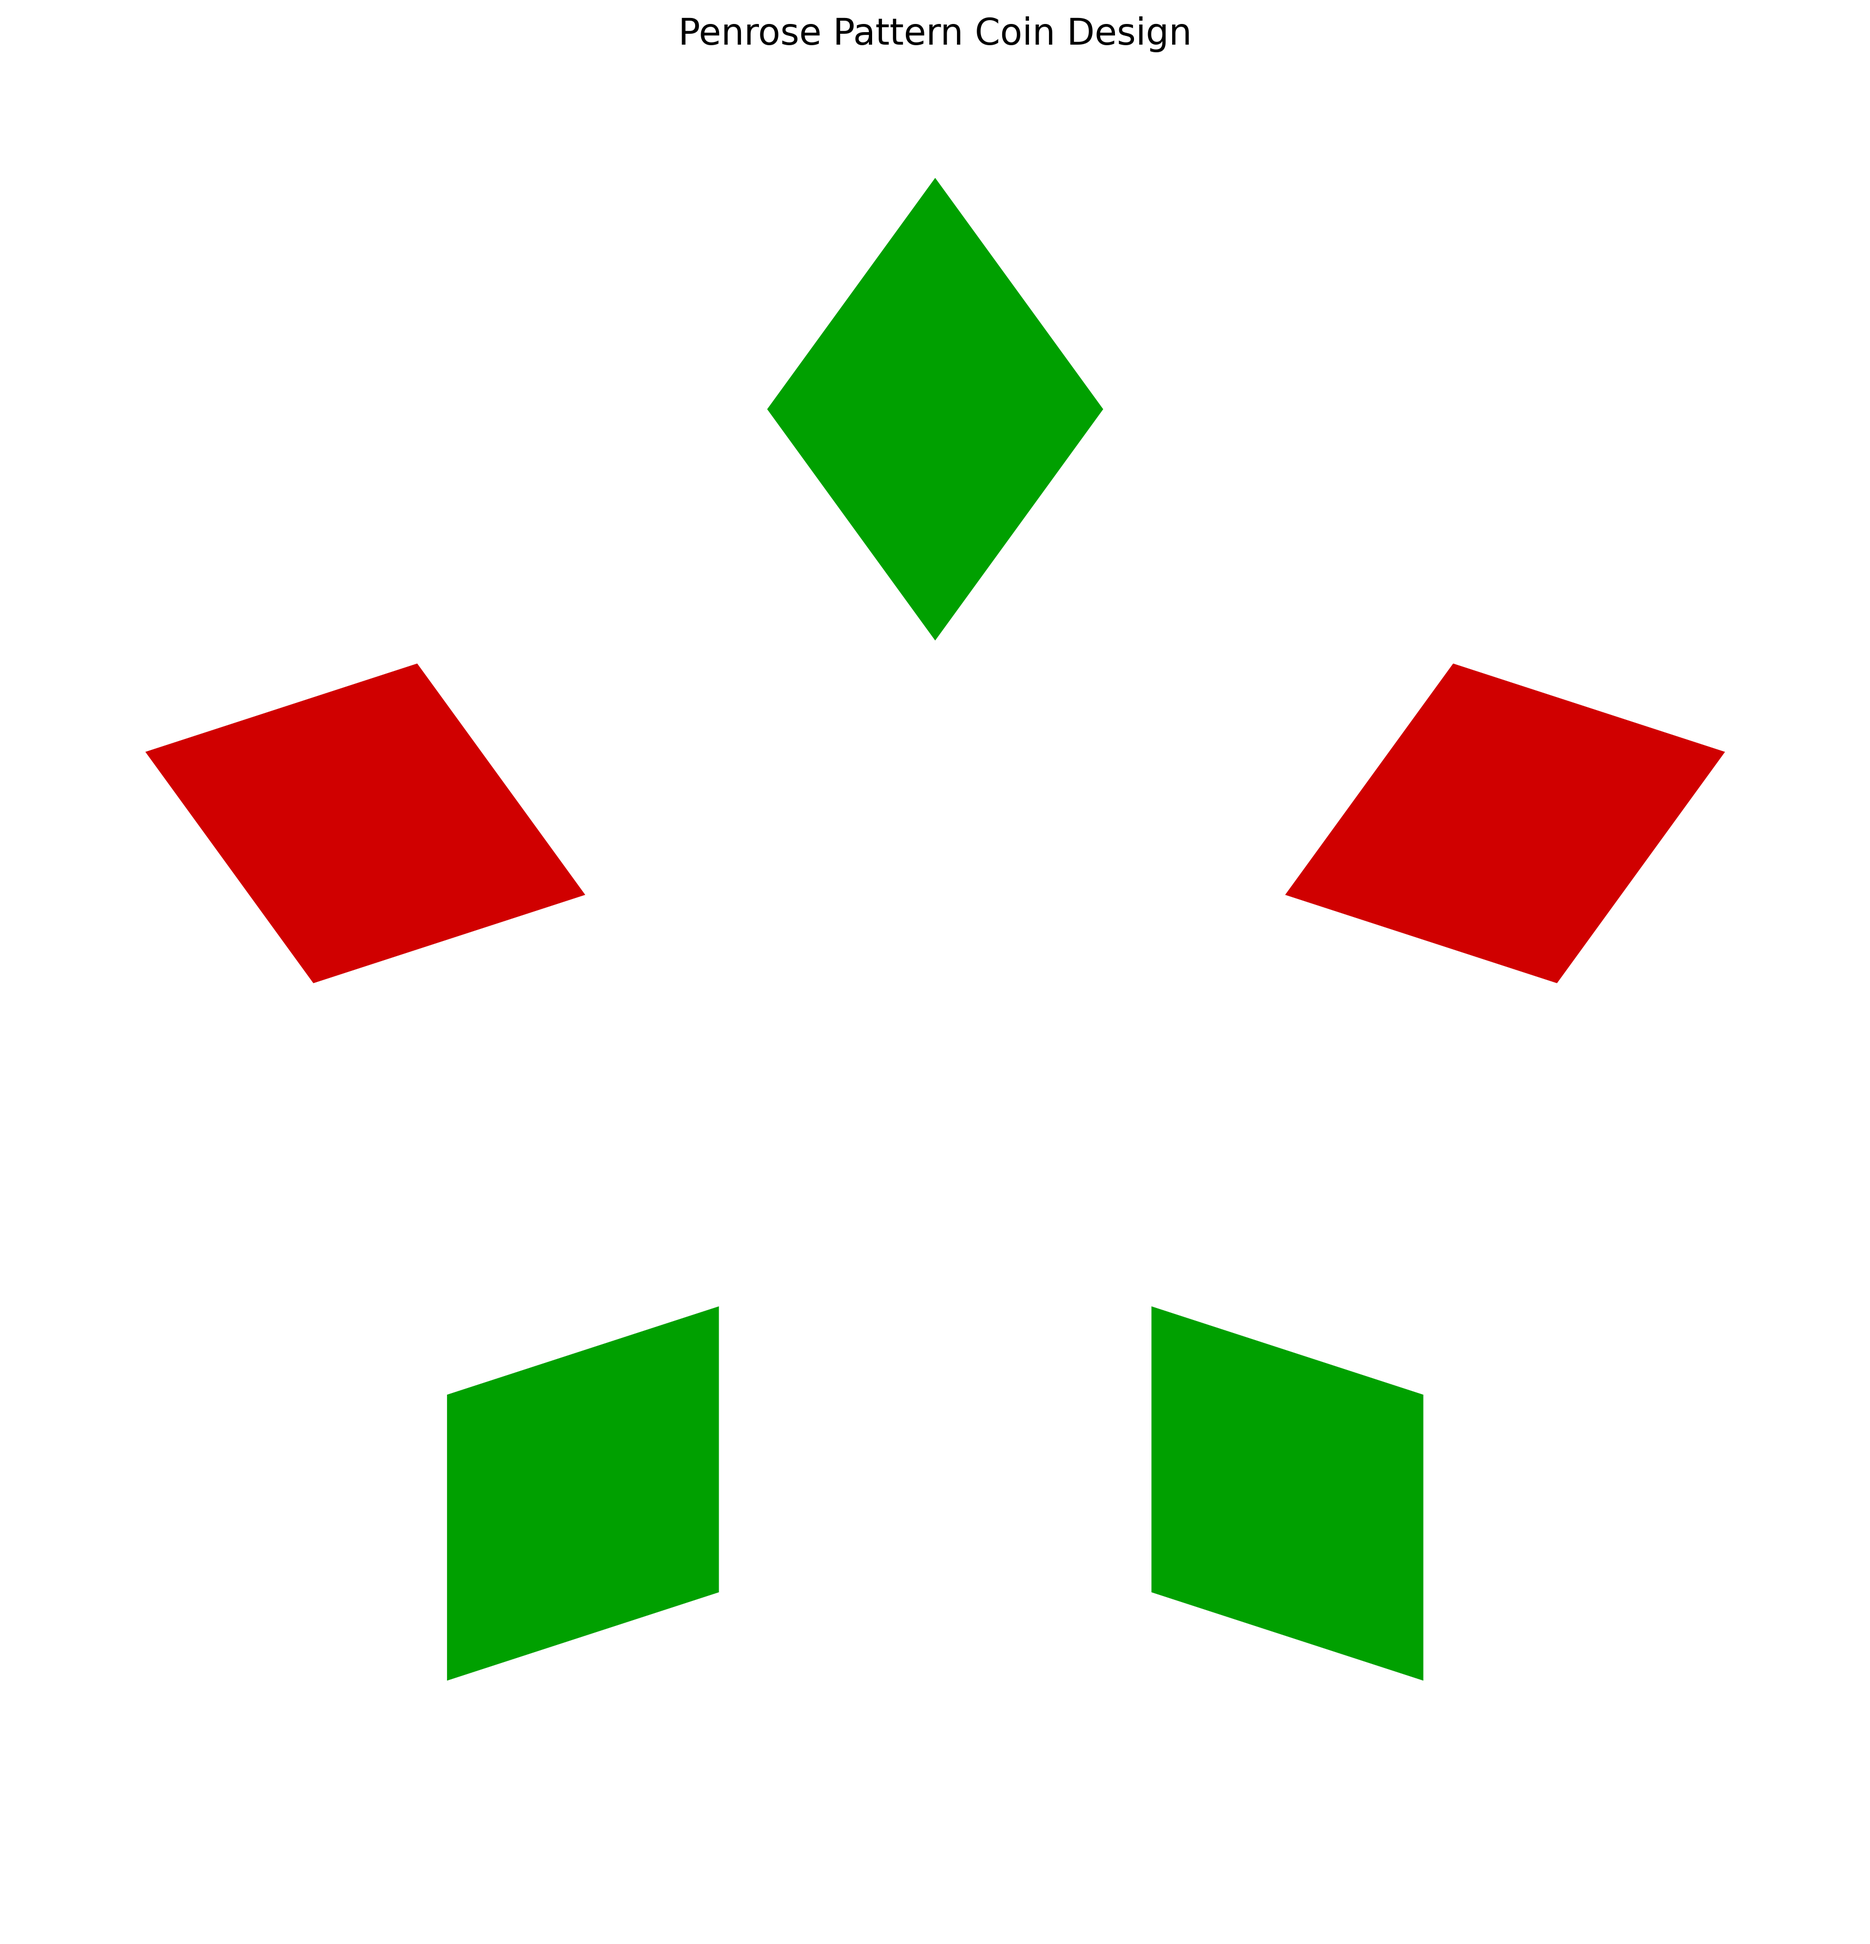
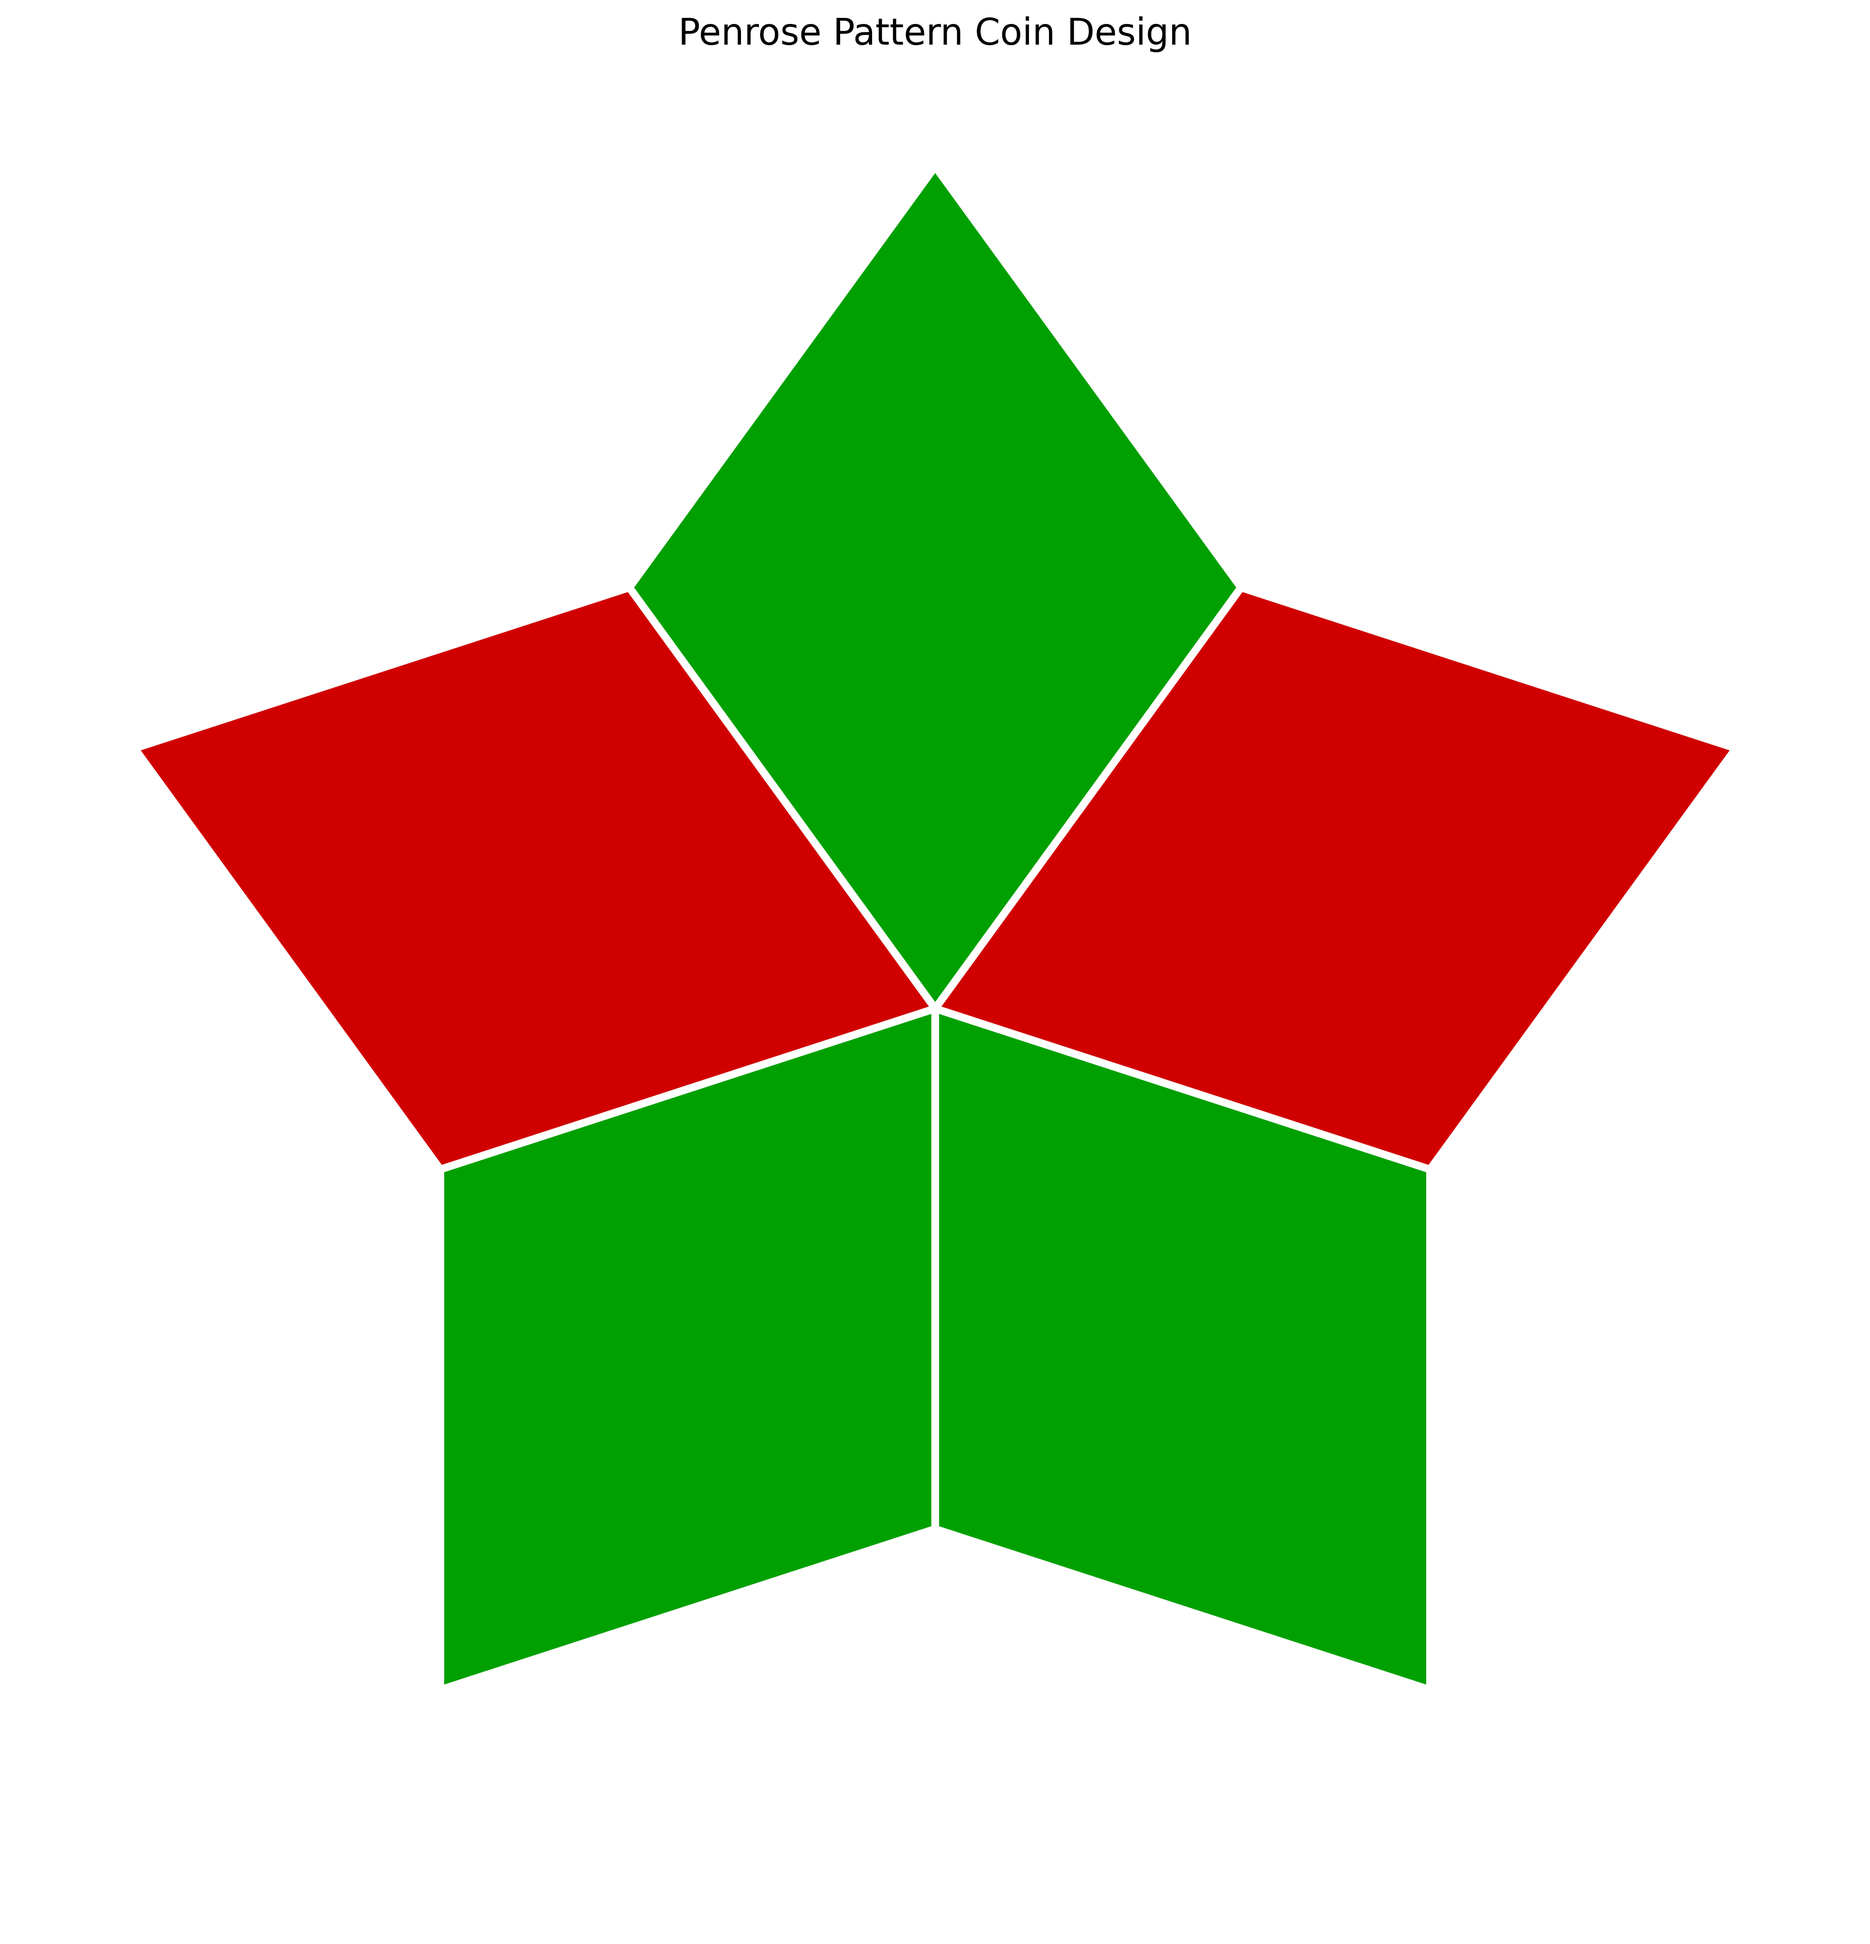
wip

Changed region(s): [[0.1557, 0.1866, 0.841, 0.8395]]

diff --git a/main.py b/main.py
@@ -9,13 +9,13 @@ from typing import List, Tuple
 class TileParams:
     """Parameters for Penrose tiling"""
     scale: float = 1.0
-    margin: float = 0.02  # Gap between tiles
+    margin: float = 0.00  # Gap between tiles
     green_color: str = '#00A000'
     red_color: str = '#D00000'
     purple_color: str = '#8800FF'
     background_color: str = '#FFFFFF'
     edge_color: str = '#DDDDDD'
-    edge_width: float = 2.0
+    edge_width: float = 0.0
 
 
 class PenroseTile:
@@ -107,7 +107,9 @@ class PenroseCoin:
         # Geometric constants based on the golden ratio for the fat rhombus
         edge_length = 1.0
         acute_angle = 72
-        d1 = edge_length * np.cos(np.radians(acute_angle / 2))  # cos(36)
+
+        some_factor_i_dont_understand = 1 / np.sqrt(np.pi / 2)
+        d1 = some_factor_i_dont_understand * np.cos(np.radians(acute_angle))  # cos(36)
 
         # Define the pattern as a list of tiles (type, center, angle)
         # The pattern is constructed from layers, starting from a central star.
@@ -126,35 +128,6 @@ class PenroseCoin:
             center = center_vec @ rotation.T
 
             self.add_tile(central_colors[i], tuple(center), angle)
-
-#         # Layer 2: Middle Belt (5 "purple" rhombi)
-#         # These are positioned relative to the central star
-#         for i in range(5):
-#             angle = 54 - i * 72
-#             # This center calculation is derived from geometric construction
-#             center_vec = np.array([2 * d1 * np.cos(np.radians(36)), 0])
-#
-#             rot_rad = np.radians(angle + 18) # Additional rotation for positioning
-#             rotation = np.array([[np.cos(rot_rad), -np.sin(rot_rad)],
-#                                  [np.sin(rot_rad), np.cos(rot_rad)]])
-#             center = center_vec @ rotation.T
-#
-#             self.add_tile('purple', tuple(center), angle)
-#
-#         # Layer 3: Outer Belt (5 rhombi)
-#         outer_colors = ['green', 'red', 'green', 'red', 'green'] # Symmetrical coloring
-#         for i in range(5):
-#             angle = 90 - i * 72
-#             # Positioned further out
-#             center_vec = np.array([d1 + 2 * d1 * np.cos(np.radians(72)),
-#                                    2 * d1 * np.sin(np.radians(72))])
-#
-#             rot_rad = np.radians(angle - 90)
-#             rotation = np.array([[np.cos(rot_rad), -np.sin(rot_rad)],
-#                                  [np.sin(rot_rad), np.cos(rot_rad)]])
-#             center = center_vec @ rotation.T
-#
-#             self.add_tile(outer_colors[i], tuple(center), angle)
 
 
     def plot(self, figsize: Tuple[int, int] = (10, 10),
@@ -194,10 +167,10 @@ class PenroseCoin:
 if __name__ == "__main__":
     # Create coin with custom parameters
     params = TileParams(
-        scale=0.4,
-        margin=0.015,
-        edge_color='#FFFFFF',
-        edge_width=2.5
+        scale=0.3,
+        margin=0.00,
+        edge_color='#000000',
+        edge_width=0.0
     )
 
     coin = PenroseCoin(params)
